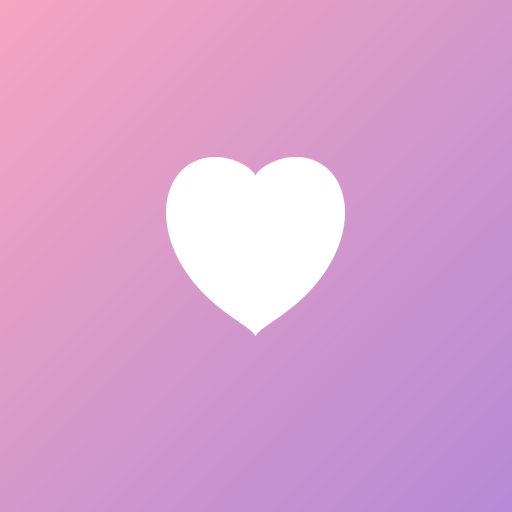
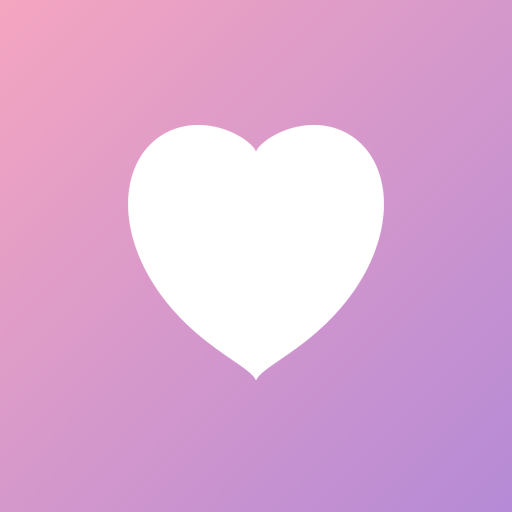
fix: 홈화면 하트 아이콘 크기 확대(0.35→0.5배) + 캐시 v3
Claude-Session: https://claude.ai/code/session_01GBUL9exxcKfE1H6BS6CFC6

Changed region(s): [[0.25, 0.2188, 0.75, 0.75]]

diff --git a/index.html b/index.html
@@ -4,14 +4,14 @@
 <meta charset="UTF-8">
 <meta name="viewport" content="width=device-width, initial-scale=1, maximum-scale=1, user-scalable=no, viewport-fit=cover">
 <title>정용 ♥ 지영 — 우리 캘린더</title>
-<link rel="manifest" href="manifest.webmanifest?v=2">
+<link rel="manifest" href="manifest.webmanifest?v=3">
 <meta name="theme-color" content="#e26d92">
 <meta name="apple-mobile-web-app-capable" content="yes">
 <meta name="mobile-web-app-capable" content="yes">
 <meta name="apple-mobile-web-app-status-bar-style" content="default">
 <meta name="apple-mobile-web-app-title" content="우리 캘린더">
-<link rel="apple-touch-icon" href="apple-touch-icon.png?v=2">
-<link rel="icon" type="image/png" href="icon-192.png?v=2">
+<link rel="apple-touch-icon" href="apple-touch-icon.png?v=3">
+<link rel="icon" type="image/png" href="icon-192.png?v=3">
 <link rel="stylesheet" as="style" crossorigin href="https://cdn.jsdelivr.net/gh/orioncactus/pretendard@v1.3.9/dist/web/static/pretendard.css">
 <style>
   :root{